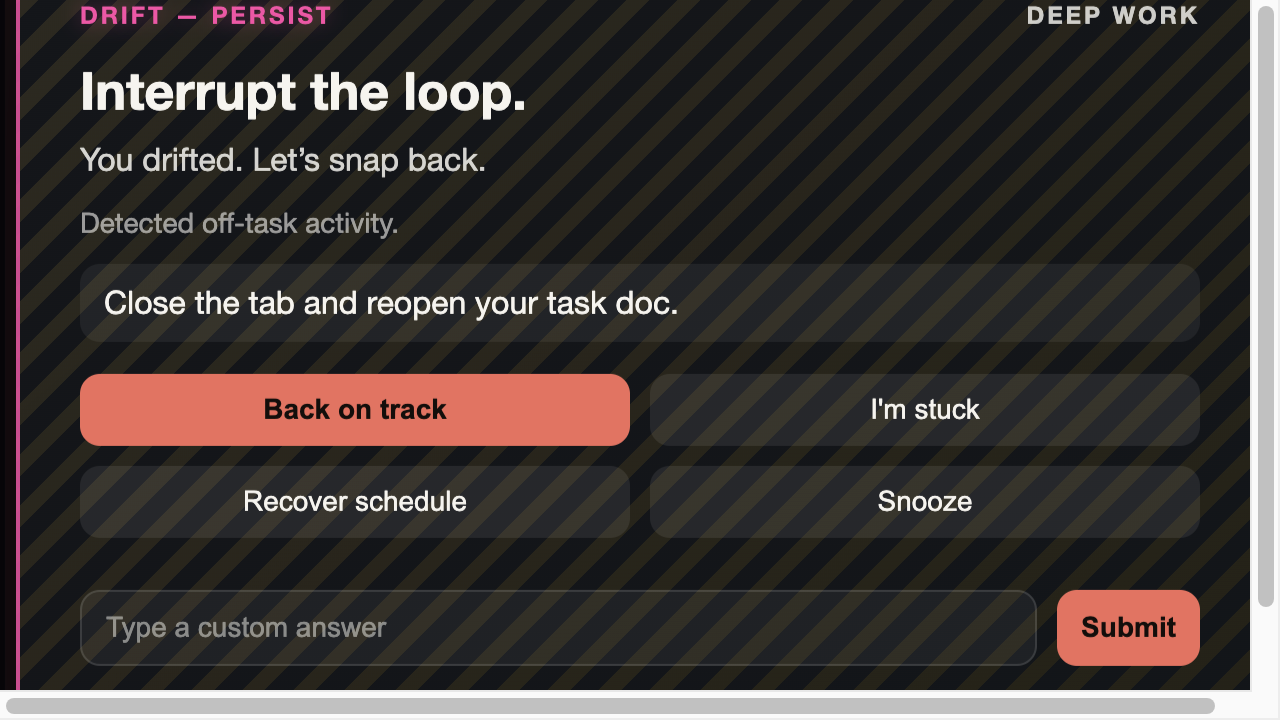
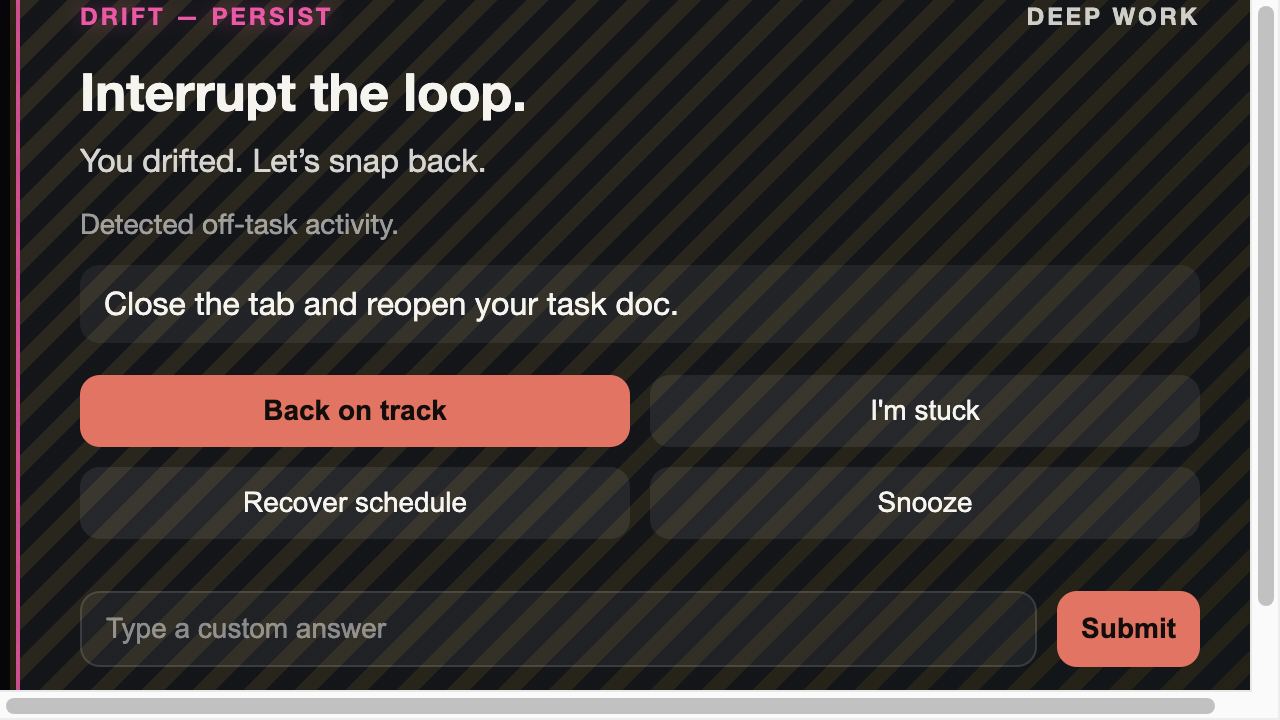
overlay: make screenshots deterministic by disabling motion

diff --git a/overlay/overlay.js b/overlay/overlay.js
@@ -105,6 +105,12 @@ function showOverlay(payload) {
   }
 
   overlay.dataset.level = payload.level || "B";
+  // Keep screenshot generation deterministic by disabling animations/transitions when invoked via screenshot.js.
+  if (payload.cmd_id === "screenshot") {
+    overlay.dataset.screenshot = "true";
+  } else {
+    delete overlay.dataset.screenshot;
+  }
   currentPayload = payload;
   shownAt = Date.now();
 }

diff --git a/overlay/overlay.css b/overlay/overlay.css
@@ -266,3 +266,10 @@ button.primary:hover {
   color: #ff49a7;
   text-shadow: 0 0 10px rgba(255, 73, 167, 0.35);
 }
+
+/* Deterministic screenshots: disable motion so captures don't vary frame-to-frame. */
+#overlay[data-screenshot="true"],
+#overlay[data-screenshot="true"] * {
+  animation: none !important;
+  transition: none !important;
+}
